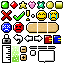
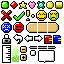
feat: replace corrected UI artwork and register additional sprite sheet

Changed region(s): [[0.4375, 0.4688, 0.9375, 0.5312], [0.4062, 0.4688, 0.4375, 0.5]]

diff --git a/test/core/ui/zoo_extra_sprite_test.dart b/test/core/ui/zoo_extra_sprite_test.dart
@@ -1,0 +1,116 @@
+import 'dart:ui' as ui;
+
+import 'package:flutter/rendering.dart';
+import 'package:flutter/services.dart';
+import 'package:flutter/widgets.dart';
+import 'package:flutter_test/flutter_test.dart';
+import 'package:zoo_study/core/ui/zoo_ui.dart';
+
+void main() {
+  test(
+    'all 16 source rectangles are integral and within the original sheet',
+    () {
+      expect(ZooExtraPart.values, hasLength(16));
+      for (final part in ZooExtraPart.values) {
+        final rect = part.sourceRect;
+        expect(rect.width, greaterThan(0));
+        expect(rect.height, greaterThan(0));
+        expect(rect.left, greaterThanOrEqualTo(0));
+        expect(rect.top, greaterThanOrEqualTo(0));
+        expect(rect.right, lessThanOrEqualTo(ZooExtraSprite.sheetSize));
+        expect(rect.bottom, lessThanOrEqualTo(ZooExtraSprite.sheetSize));
+        for (final value in [rect.left, rect.top, rect.width, rect.height]) {
+          expect(value, value.roundToDouble());
+        }
+      }
+    },
+  );
+
+  testWidgets('every sprite preserves source pixels and transparency at 2x', (
+    tester,
+  ) async {
+    tester.view.physicalSize = const Size(800, 600);
+    addTearDown(tester.view.resetPhysicalSize);
+    tester.view.devicePixelRatio = 1;
+    addTearDown(tester.view.resetDevicePixelRatio);
+    final source = await tester.runAsync(() async {
+      final data = await rootBundle.load(ZooExtraSprite.assetPath);
+      final codec = await ui.instantiateImageCodec(
+        data.buffer.asUint8List(data.offsetInBytes, data.lengthInBytes),
+      );
+      final frame = await codec.getNextFrame();
+      codec.dispose();
+      return frame.image;
+    });
+    expect(source!.width, 64);
+    expect(source.height, 64);
+    final sourceBytes = (await tester.runAsync(() => source.toByteData()))!;
+    source.dispose();
+    // Every visible source pixel belongs to exactly one named part.
+    for (var y = 0; y < 64; y++) {
+      for (var x = 0; x < 64; x++) {
+        if (sourceBytes.getUint8((y * 64 + x) * 4 + 3) == 0) continue;
+        expect(
+          ZooExtraPart.values.where(
+            (part) => part.sourceRect.contains(Offset(x + 0.5, y + 0.5)),
+          ),
+          hasLength(1),
+          reason: 'Source pixel ($x, $y) must not be omitted or duplicated',
+        );
+      }
+    }
+
+    final boundaryKey = GlobalKey();
+    for (final part in ZooExtraPart.values) {
+      await tester.runAsync(() async {
+        await tester.pumpWidget(
+          Directionality(
+            textDirection: TextDirection.ltr,
+            child: Center(
+              child: RepaintBoundary(
+                key: boundaryKey,
+                child: ZooExtraSprite(part: part, scale: 2),
+              ),
+            ),
+          ),
+        );
+        await precacheImage(
+          const AssetImage(ZooExtraSprite.assetPath),
+          tester.element(find.byType(ZooExtraSprite)),
+        );
+      });
+      await tester.pump();
+      final boundary =
+          boundaryKey.currentContext!.findRenderObject()!
+              as RenderRepaintBoundary;
+      final image = (await tester.runAsync(
+        () => boundary.toImage(pixelRatio: 1),
+      ))!;
+      final actual = (await tester.runAsync(() => image.toByteData()))!;
+      final width = image.width;
+      final height = image.height;
+      image.dispose();
+      expect(width, part.sourceRect.width * 2);
+      expect(height, part.sourceRect.height * 2);
+      for (var y = 0; y < height; y++) {
+        for (var x = 0; x < width; x++) {
+          final sourceIndex =
+              ((part.sourceRect.top.toInt() + y ~/ 2) * 64 +
+                  part.sourceRect.left.toInt() +
+                  x ~/ 2) *
+              4;
+          final actualIndex = (y * width + x) * 4;
+          for (var channel = 0; channel < 4; channel++) {
+            expect(
+              actual.getUint8(actualIndex + channel),
+              sourceBytes.getUint8(sourceIndex + channel),
+              reason: '${part.name} at ($x, $y) channel $channel',
+            );
+          }
+        }
+      }
+      expect(tester.takeException(), isNull);
+    }
+    await tester.pumpWidget(const SizedBox.shrink());
+  });
+}

diff --git a/lib/core/ui/sprites/zoo_extra_part.dart b/lib/core/ui/sprites/zoo_extra_part.dart
@@ -1,0 +1,24 @@
+import 'dart:ui';
+
+/// Original 64x64 sheet, divided into 16x16 cells in reading order.
+enum ZooExtraPart {
+  woodenButtonLeft(Rect.fromLTWH(0, 0, 16, 16)),
+  woodenButtonMiddle(Rect.fromLTWH(16, 0, 16, 16)),
+  woodenButtonRight(Rect.fromLTWH(32, 0, 16, 16)),
+  graySquareButton(Rect.fromLTWH(48, 0, 16, 16)),
+  grayRoundButton(Rect.fromLTWH(0, 16, 16, 16)),
+  creamSquareButton(Rect.fromLTWH(16, 16, 16, 16)),
+  limeButtonLeft(Rect.fromLTWH(32, 16, 16, 16)),
+  limeButtonRight(Rect.fromLTWH(48, 16, 16, 16)),
+  magnifyingGlass(Rect.fromLTWH(0, 32, 16, 16)),
+  brickLeft(Rect.fromLTWH(16, 32, 16, 16)),
+  brickMiddle(Rect.fromLTWH(32, 32, 16, 16)),
+  brickRight(Rect.fromLTWH(48, 32, 16, 16)),
+  fenceVertical(Rect.fromLTWH(0, 48, 16, 16)),
+  fenceBottomLeft(Rect.fromLTWH(16, 48, 16, 16)),
+  grassWaterQuarter(Rect.fromLTWH(32, 48, 16, 16)),
+  grassWaterHalf(Rect.fromLTWH(48, 48, 16, 16));
+
+  const ZooExtraPart(this.sourceRect);
+  final Rect sourceRect;
+}

diff --git a/lib/core/ui/sprites/zoo_extra_sprite.dart b/lib/core/ui/sprites/zoo_extra_sprite.dart
@@ -1,0 +1,37 @@
+import 'package:flutter/widgets.dart';
+
+import 'pixel_sprite.dart';
+import 'zoo_extra_part.dart';
+
+/// Keeps transparent cell padding so terrain and button segments join at 16px.
+class ZooExtraSprite extends StatelessWidget {
+  const ZooExtraSprite({
+    super.key,
+    required this.part,
+    this.scale = 2,
+    this.quarterTurns = 0,
+    this.mirrorX = false,
+    this.semanticLabel,
+  });
+  static const assetPath = 'assets/sprites/20261024_3.png';
+  static const sheetSize = 64.0;
+  final ZooExtraPart part;
+  final double scale;
+  final int quarterTurns;
+  final bool mirrorX;
+  final String? semanticLabel;
+
+  @override
+  Widget build(BuildContext context) => RotatedBox(
+    quarterTurns: quarterTurns,
+    child: Transform.flip(
+      flipX: mirrorX,
+      child: PixelSprite(
+        assetPath: assetPath,
+        sourceRect: part.sourceRect,
+        scale: scale,
+        semanticLabel: semanticLabel,
+      ),
+    ),
+  );
+}

diff --git a/lib/core/ui/zoo_ui.dart b/lib/core/ui/zoo_ui.dart
@@ -14,3 +14,6 @@ export 'sprites/terrain_sprite.dart';
 export 'sprites/terrain_texture.dart';
 
 export 'widgets/wood_panel.dart';
+
+export 'sprites/zoo_extra_part.dart';
+export 'sprites/zoo_extra_sprite.dart';

diff --git a/lib/core/ui/README.md b/lib/core/ui/README.md
@@ -60,3 +60,27 @@ const ZooArtSprite(part: ZooArtPart.coins, scale: 2)
 `TerrainTexture` は透明な余白を除いたパターンを繰り返して子ウィジェットの背景に敷きます。
 画像の読み込み・共有は `SpriteSheetImage` にまとめ、`PixelSprite` とマップ描画から利用します。
 [配置と回転の説明](../../../docs/terrain_usage.md) を参照してください。
+
+## 修正版と追加素材（20261024_3.zip）
+
+`assets/ui/zooStudyUI.png` はZIPの修正版に置き換えました。既存33パーツの座標・APIは維持しています。
+`assets/sprites/20261024_3.png` は新しい元画像をそのまま登録しています。
+`ZooExtraPart` / `ZooExtraSprite` で16×16の区画を呼び出せます。透明な余白も区画内に保持します。
+
+| 行 | 左から順のパーツ名 |
+| --- | --- |
+| 1 | `woodenButtonLeft`, `woodenButtonMiddle`, `woodenButtonRight`, `graySquareButton` |
+| 2 | `grayRoundButton`, `creamSquareButton`, `limeButtonLeft`, `limeButtonRight` |
+| 3 | `magnifyingGlass`, `brickLeft`, `brickMiddle`, `brickRight` |
+| 4 | `fenceVertical`, `fenceBottomLeft`, `grassWaterQuarter`, `grassWaterHalf` |
+
+```dart
+const ZooExtraSprite(part: ZooExtraPart.magnifyingGlass, scale: 2)
+// 左下の角を左右反転して右下にする。
+const ZooExtraSprite(part: ZooExtraPart.fenceBottomLeft, mirrorX: true)
+// 水際の向きを90度単位で変更する。
+const ZooExtraSprite(part: ZooExtraPart.grassWaterQuarter, quarterTurns: 1)
+```
+
+追加シートは利用準備までで、マップや既存の木製部品の配置は変更していません。
+新しい木製パーツは16×16、従来の木製パーツは別サイズなので同じ座標として扱わないでください。
